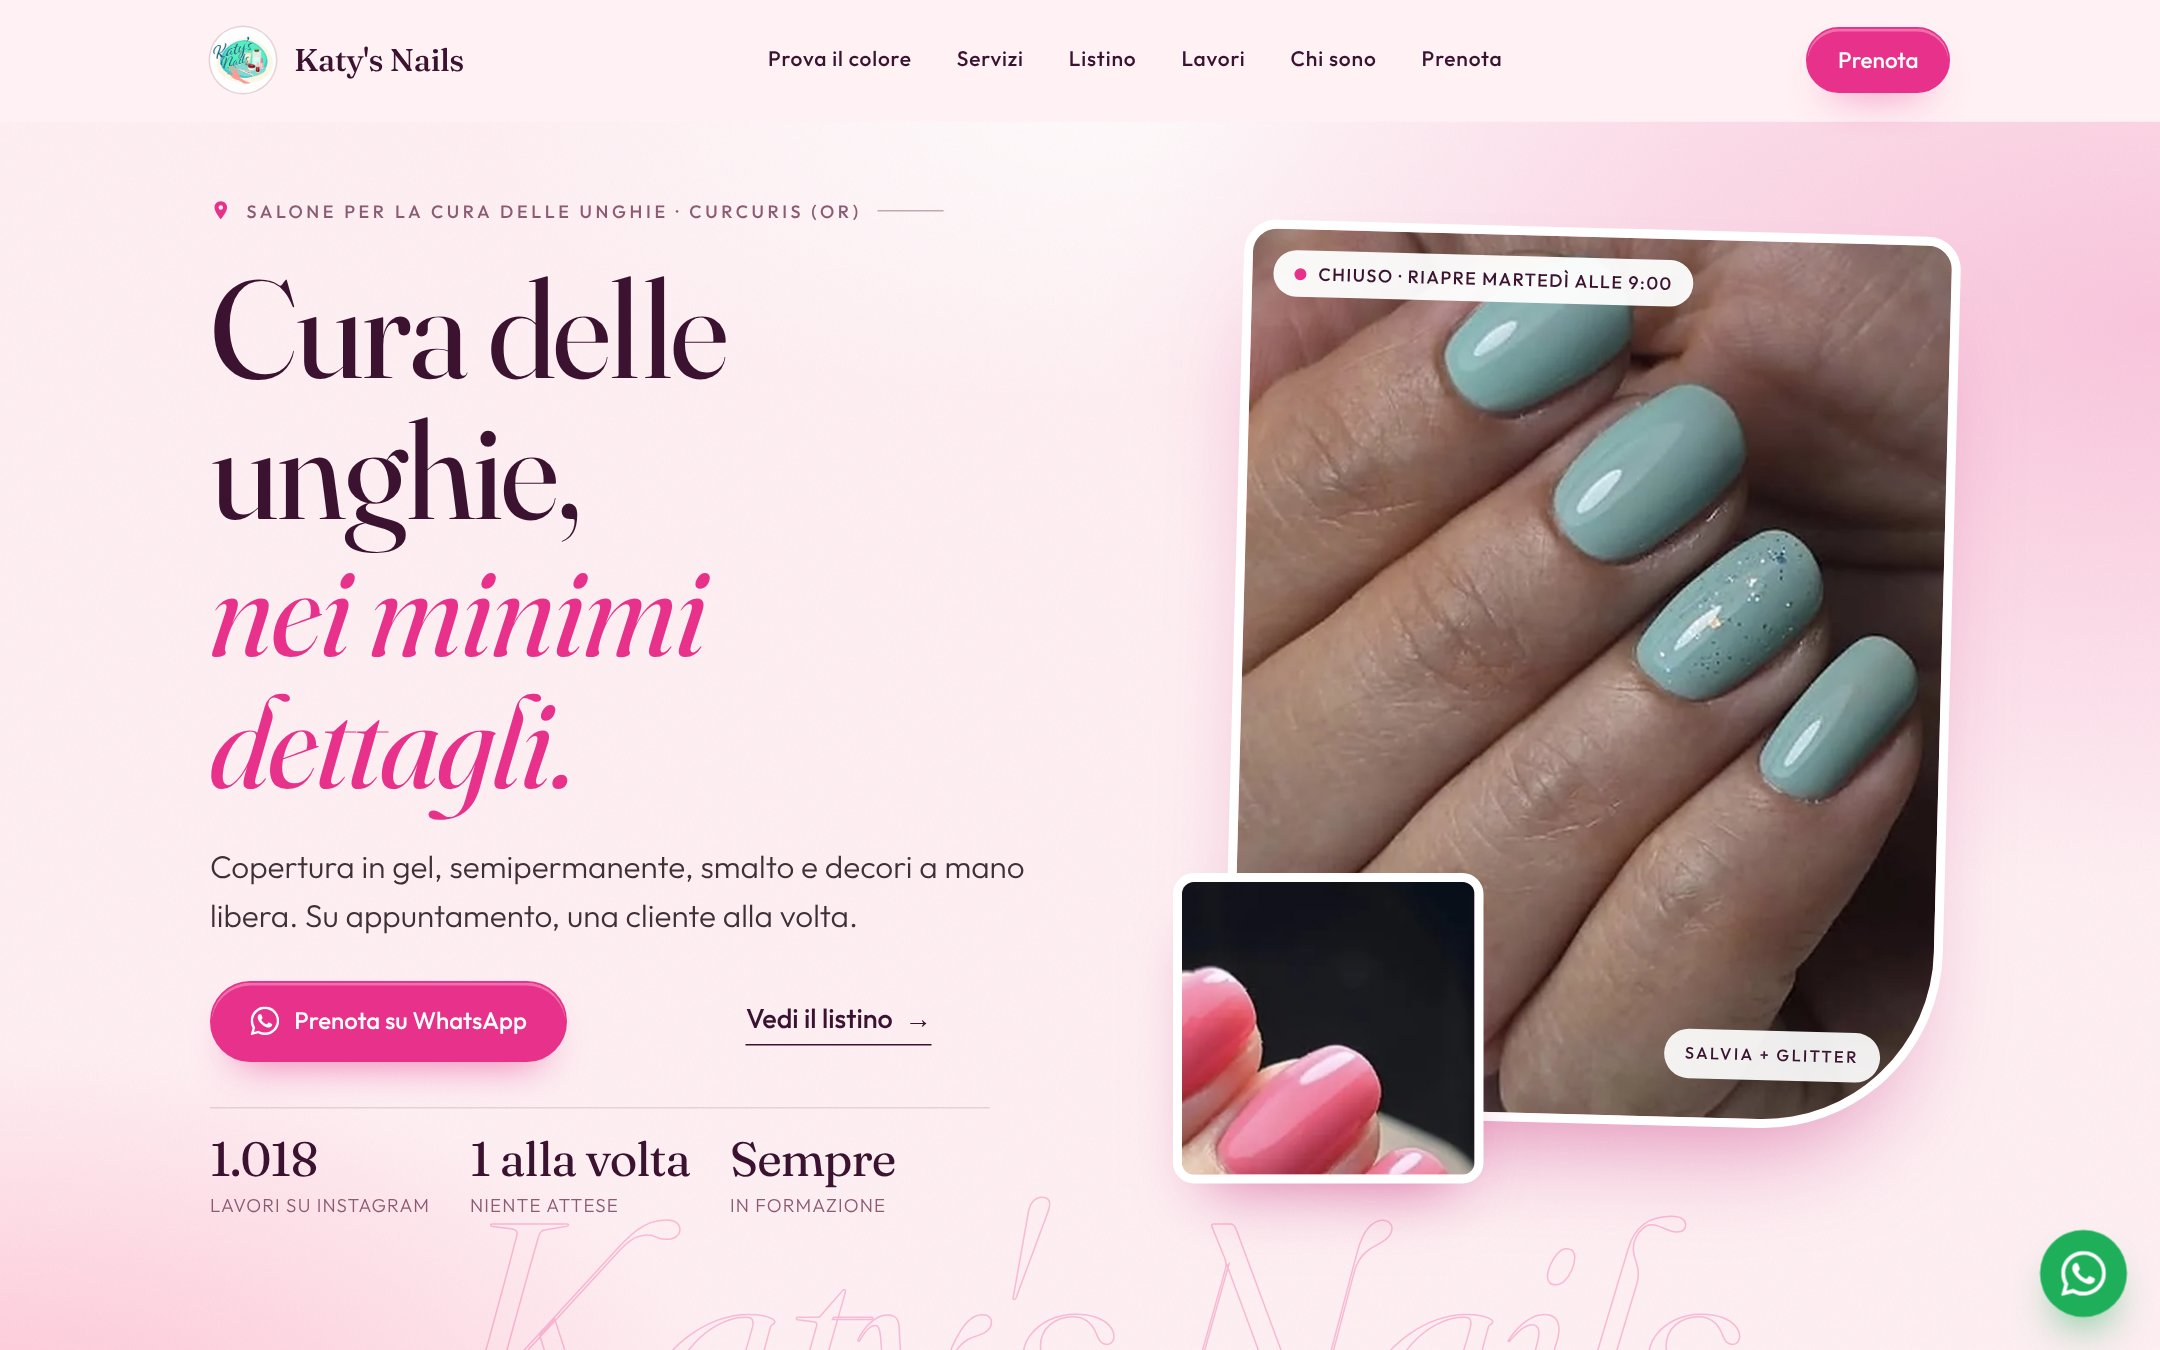
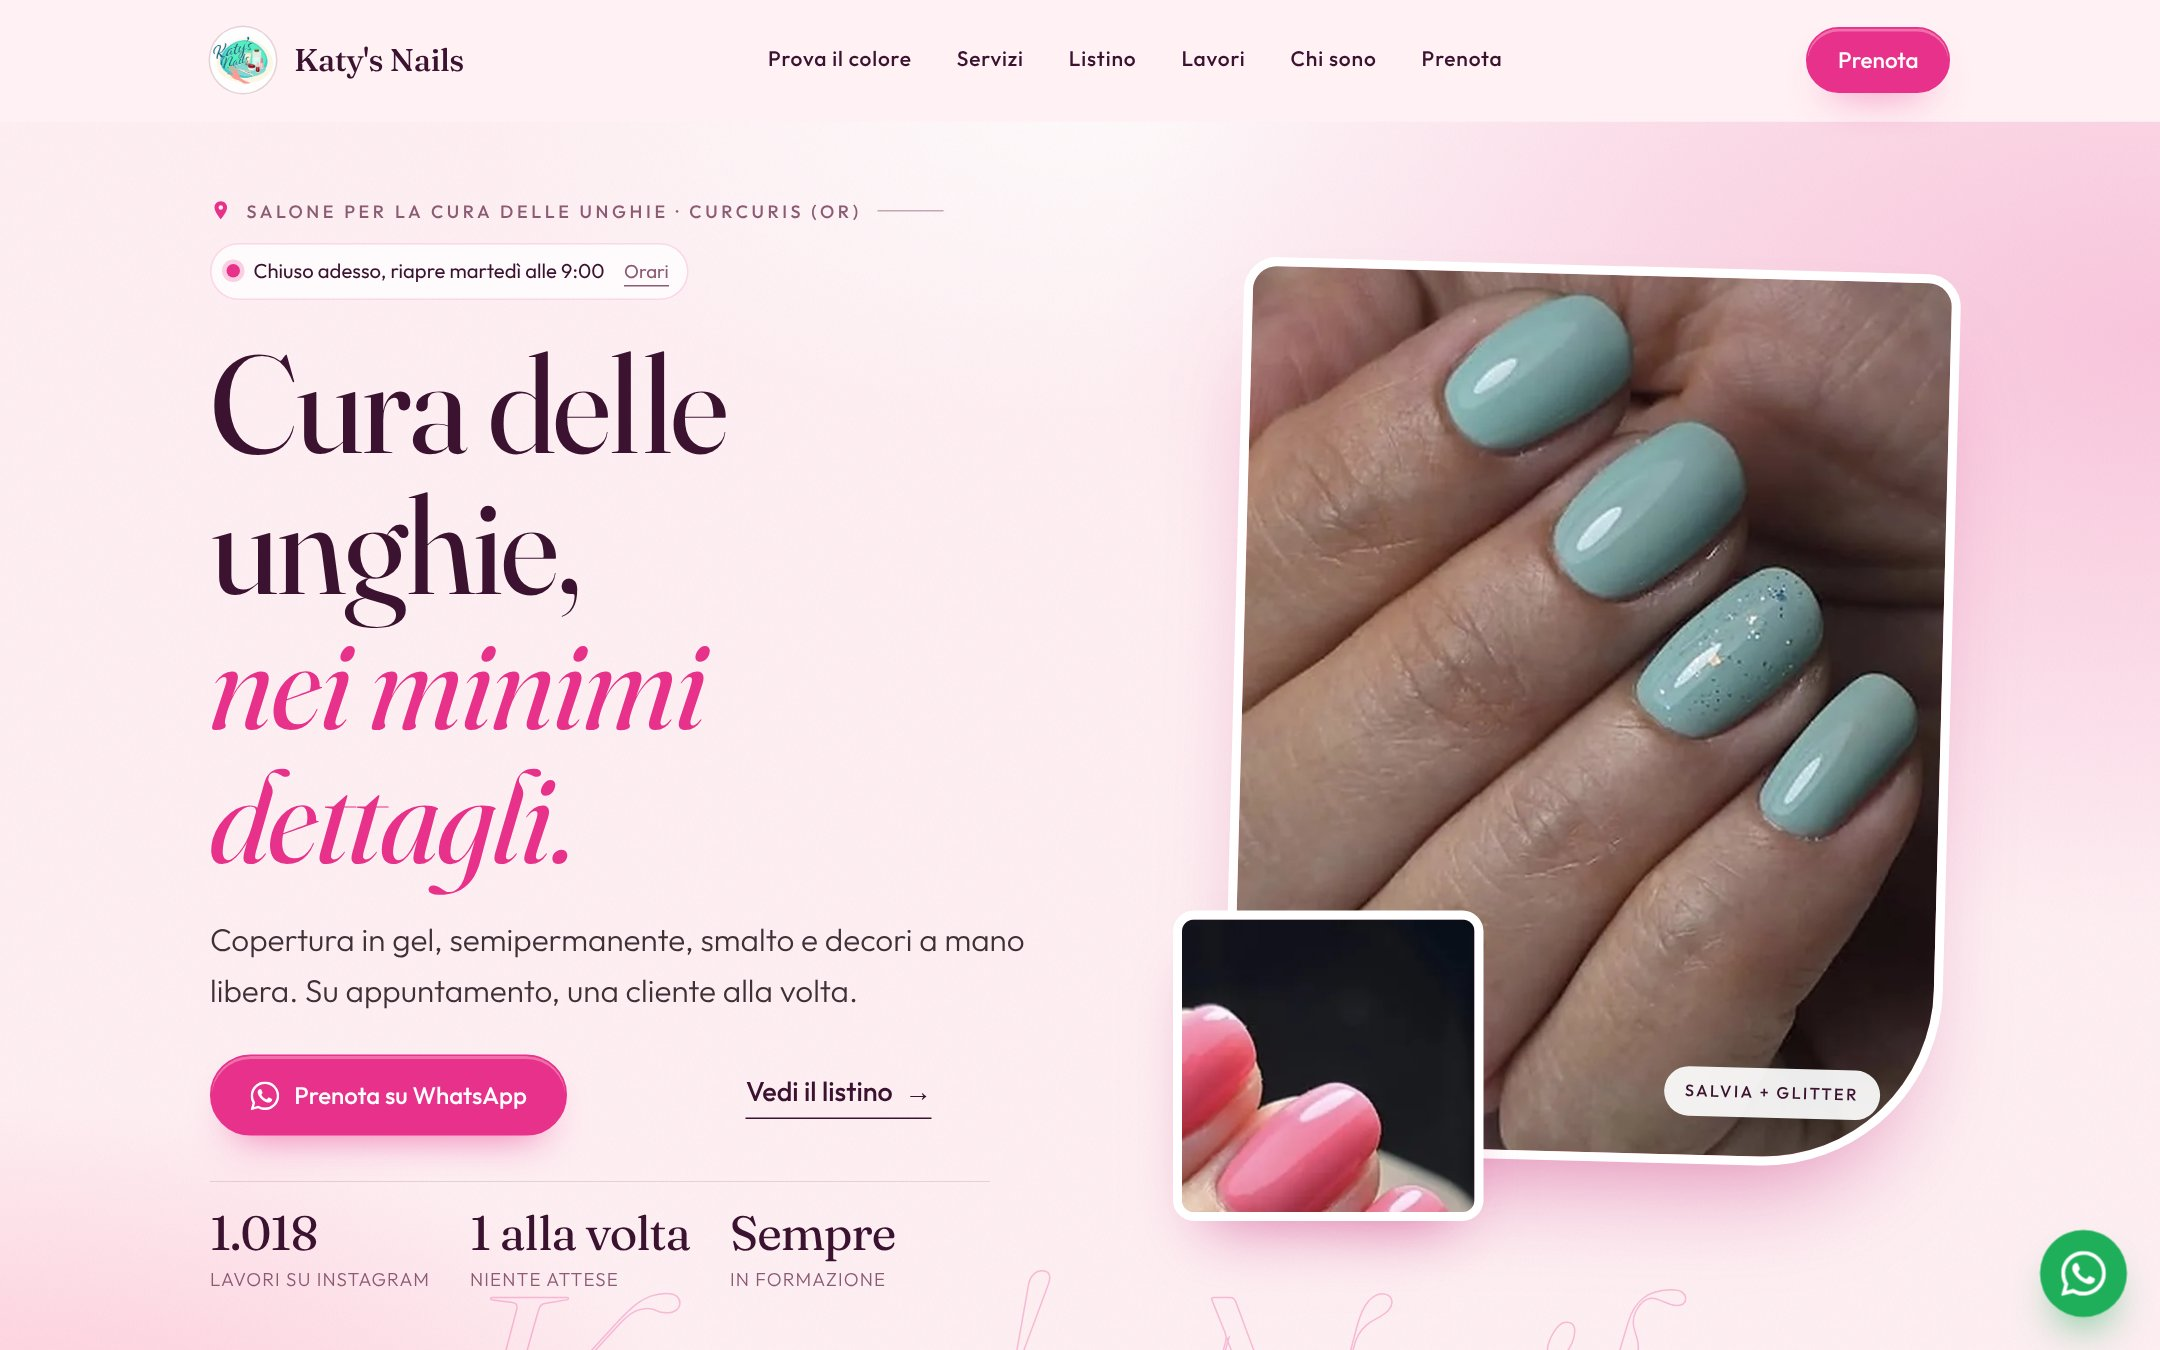
Aperto/chiuso spostato dalla foto al testo dell'apertura
Sulla foto sembrava una didascalia. Ora sta sotto l'etichetta dello
studio, con il link agli orari.

Claude-Session: https://claude.ai/code/session_01W7HbZyGkFPDAda3KWqu4ya

diff --git a/anteprima/index.html b/anteprima/index.html
@@ -24,7 +24,7 @@
 <link rel="preload" href="../da-caricare/assets/fonts/fraunces-latin-normal-300-700.woff2" as="font" type="font/woff2" crossorigin>
 <link rel="preload" href="../da-caricare/assets/fonts/fraunces-latin-italic-300-700.woff2" as="font" type="font/woff2" crossorigin>
 <link rel="preload" href="../da-caricare/assets/fonts/outfit-latin-normal-300-800.woff2" as="font" type="font/woff2" crossorigin>
-<link rel="stylesheet" href="../da-caricare/assets/css/site.css?v=1795294460">
+<link rel="stylesheet" href="../da-caricare/assets/css/site.css?v=1795295909">
 <script>document.documentElement.classList.add('js')</script>
 <script type="application/ld+json">{"@context":"https://schema.org","@type":"NailSalon","name":"Katy's Nails","url":"http://anteprima.local/","image":"http://anteprima.local/assets/img/og.jpg","logo":"http://anteprima.local/assets/img/logo.jpg","telephone":"+39 349 413 6132","address":{"@type":"PostalAddress","streetAddress":"Via Grazia Deledda 2a","addressLocality":"Curcuris","addressRegion":"OR","addressCountry":"IT"},"openingHoursSpecification":[{"@type":"OpeningHoursSpecification","dayOfWeek":"Tuesday","opens":"09:00","closes":"13:00"},{"@type":"OpeningHoursSpecification","dayOfWeek":"Tuesday","opens":"15:00","closes":"19:00"},{"@type":"OpeningHoursSpecification","dayOfWeek":"Wednesday","opens":"09:00","closes":"13:00"},{"@type":"OpeningHoursSpecification","dayOfWeek":"Wednesday","opens":"15:00","closes":"19:00"},{"@type":"OpeningHoursSpecification","dayOfWeek":"Thursday","opens":"09:00","closes":"13:00"},{"@type":"OpeningHoursSpecification","dayOfWeek":"Thursday","opens":"15:00","closes":"19:00"},{"@type":"OpeningHoursSpecification","dayOfWeek":"Friday","opens":"09:00","closes":"13:00"},{"@type":"OpeningHoursSpecification","dayOfWeek":"Friday","opens":"15:00","closes":"19:00"},{"@type":"OpeningHoursSpecification","dayOfWeek":"Saturday","opens":"09:00","closes":"14:00"}],"sameAs":["https://www.instagram.com/katys.nails.studio90/"]}</script>
 </head>
@@ -48,6 +48,7 @@
   <div class="wrap hero-grid">
     <div class="hero-text">
       <p class="kicker up" style="--d:0"><svg viewBox="0 0 24 24" aria-hidden="true" class="ico"><path fill="currentColor" d="M12 2C8.13 2 5 5.13 5 9c0 5.25 7 13 7 13s7-7.75 7-13c0-3.87-3.13-7-7-7zm0 9.5a2.5 2.5 0 010-5 2.5 2.5 0 010 5z"/></svg><span>Salone per la cura delle unghie · Curcuris (OR)</span></p>
+      <p class="hero-open up" style="--d:0" id="hero-status" hidden><i></i><span></span><a href="#prenota">Orari</a></p>
       <h1><span class="up" style="--d:1">Cura delle unghie,</span> <em class="script up" style="--d:2">nei minimi dettagli.</em></h1>
       <p class="lead up" style="--d:3">Copertura in gel, semipermanente, smalto e decori a mano libera. Su appuntamento, una cliente alla volta.</p>
       <div class="cta up" style="--d:4">
@@ -61,7 +62,6 @@
       <figure class="visual" data-slides="[{&quot;src&quot;:&quot;../da-caricare/uploads/20261121-e12d07703976.webp&quot;,&quot;cap&quot;:&quot;Rosa fragola lucido&quot;},{&quot;src&quot;:&quot;../da-caricare/uploads/20261121-0f730c578a9b.webp&quot;,&quot;cap&quot;:&quot;French sottile&quot;},{&quot;src&quot;:&quot;../da-caricare/uploads/20261121-e0dcf2bb16c1.webp&quot;,&quot;cap&quot;:&quot;Rosa latte&quot;}]">
         <div class="slides"><img src="../da-caricare/uploads/20261121-7a33137fe847.webp" alt="Salvia + glitter" class="on" width="800" height="1000" fetchpriority="high"></div>
         <span class="shine" aria-hidden="true"></span>
-        <span class="status live" id="hero-status" hidden></span>
         <figcaption><span id="hero-cap">Salvia + glitter</span></figcaption>
       </figure>
             <figure class="visual-2"><img src="../da-caricare/uploads/20261121-e12d07703976-t.webp" alt="Rosa fragola lucido" width="400" height="400" loading="lazy"></figure>
@@ -348,6 +348,6 @@
   <a class="ab-wa" href="https://wa.me/393494136132?text=Ciao%20Katy%21%20Vorrei%20prenotare%20un%20appuntamento." target="_blank" rel="noopener"><svg viewBox="0 0 24 24" aria-hidden="true" class="ico"><path fill="currentColor" d="M17.472 14.382c-.297-.149-1.758-.867-2.03-.967-.273-.099-.471-.148-.67.15-.197.297-.767.966-.94 1.164-.173.199-.347.223-.644.075-.297-.15-1.255-.463-2.39-1.475-.883-.788-1.48-1.761-1.653-2.059-.173-.297-.018-.458.13-.606.134-.133.298-.347.446-.52.149-.174.198-.298.298-.497.099-.198.05-.371-.025-.52-.075-.149-.669-1.612-.916-2.207-.242-.579-.487-.5-.669-.51-.173-.008-.371-.01-.57-.01-.198 0-.52.074-.792.372-.272.297-1.04 1.016-1.04 2.479 0 1.462 1.065 2.875 1.213 3.074.149.198 2.096 3.2 5.077 4.487.709.306 1.262.489 1.694.625.712.227 1.36.195 1.871.118.571-.085 1.758-.719 2.006-1.413.248-.694.248-1.289.173-1.413-.074-.124-.272-.198-.57-.347m-5.421 7.403h-.004a9.87 9.87 0 01-5.031-1.378l-.361-.214-3.741.982.998-3.648-.235-.374a9.86 9.86 0 01-1.51-5.26c.001-5.45 4.436-9.884 9.888-9.884 2.64 0 5.122 1.03 6.988 2.898a9.825 9.825 0 012.893 6.994c-.003 5.45-4.437 9.884-9.885 9.884m8.413-18.297A11.815 11.815 0 0012.05 0C5.495 0 .16 5.335.157 11.892c0 2.096.547 4.142 1.588 5.945L.057 24l6.305-1.654a11.882 11.882 0 005.683 1.448h.005c6.554 0 11.89-5.335 11.893-11.893a11.821 11.821 0 00-3.48-8.413z"/></svg>WhatsApp</a>
 </div>
 <a class="wa-float" href="https://wa.me/393494136132?text=Ciao%20Katy%21%20Vorrei%20prenotare%20un%20appuntamento." target="_blank" rel="noopener" aria-label="Scrivi a Katy&#039;s Nails su WhatsApp"><svg viewBox="0 0 24 24" aria-hidden="true" class="ico"><path fill="currentColor" d="M17.472 14.382c-.297-.149-1.758-.867-2.03-.967-.273-.099-.471-.148-.67.15-.197.297-.767.966-.94 1.164-.173.199-.347.223-.644.075-.297-.15-1.255-.463-2.39-1.475-.883-.788-1.48-1.761-1.653-2.059-.173-.297-.018-.458.13-.606.134-.133.298-.347.446-.52.149-.174.198-.298.298-.497.099-.198.05-.371-.025-.52-.075-.149-.669-1.612-.916-2.207-.242-.579-.487-.5-.669-.51-.173-.008-.371-.01-.57-.01-.198 0-.52.074-.792.372-.272.297-1.04 1.016-1.04 2.479 0 1.462 1.065 2.875 1.213 3.074.149.198 2.096 3.2 5.077 4.487.709.306 1.262.489 1.694.625.712.227 1.36.195 1.871.118.571-.085 1.758-.719 2.006-1.413.248-.694.248-1.289.173-1.413-.074-.124-.272-.198-.57-.347m-5.421 7.403h-.004a9.87 9.87 0 01-5.031-1.378l-.361-.214-3.741.982.998-3.648-.235-.374a9.86 9.86 0 01-1.51-5.26c.001-5.45 4.436-9.884 9.888-9.884 2.64 0 5.122 1.03 6.988 2.898a9.825 9.825 0 012.893 6.994c-.003 5.45-4.437 9.884-9.885 9.884m8.413-18.297A11.815 11.815 0 0012.05 0C5.495 0 .16 5.335.157 11.892c0 2.096.547 4.142 1.588 5.945L.057 24l6.305-1.654a11.882 11.882 0 005.683 1.448h.005c6.554 0 11.89-5.335 11.893-11.893a11.821 11.821 0 00-3.48-8.413z"/></svg></a>
-<script src="../da-caricare/assets/js/site.js?v=1795294156" defer></script>
+<script src="../da-caricare/assets/js/site.js?v=1795295909" defer></script>
 </body>
 </html>

diff --git a/anteprima/privacy.html b/anteprima/privacy.html
@@ -24,7 +24,7 @@
 <link rel="preload" href="../da-caricare/assets/fonts/fraunces-latin-normal-300-700.woff2" as="font" type="font/woff2" crossorigin>
 <link rel="preload" href="../da-caricare/assets/fonts/fraunces-latin-italic-300-700.woff2" as="font" type="font/woff2" crossorigin>
 <link rel="preload" href="../da-caricare/assets/fonts/outfit-latin-normal-300-800.woff2" as="font" type="font/woff2" crossorigin>
-<link rel="stylesheet" href="../da-caricare/assets/css/site.css?v=1795294460">
+<link rel="stylesheet" href="../da-caricare/assets/css/site.css?v=1795295909">
 <script>document.documentElement.classList.add('js')</script>
 </head>
 <body><div style="background:#2E1F28;color:#fff;font:500 13px/1.4 system-ui,sans-serif;text-align:center;padding:8px 12px">Anteprima del sito · il pannello di gestione funziona solo quando il sito è online su un hosting con PHP</div>
@@ -98,6 +98,6 @@
   <a class="ab-wa" href="https://wa.me/393494136132?text=Ciao%20Katy%21%20Vorrei%20prenotare%20un%20appuntamento." target="_blank" rel="noopener"><svg viewBox="0 0 24 24" aria-hidden="true" class="ico"><path fill="currentColor" d="M17.472 14.382c-.297-.149-1.758-.867-2.03-.967-.273-.099-.471-.148-.67.15-.197.297-.767.966-.94 1.164-.173.199-.347.223-.644.075-.297-.15-1.255-.463-2.39-1.475-.883-.788-1.48-1.761-1.653-2.059-.173-.297-.018-.458.13-.606.134-.133.298-.347.446-.52.149-.174.198-.298.298-.497.099-.198.05-.371-.025-.52-.075-.149-.669-1.612-.916-2.207-.242-.579-.487-.5-.669-.51-.173-.008-.371-.01-.57-.01-.198 0-.52.074-.792.372-.272.297-1.04 1.016-1.04 2.479 0 1.462 1.065 2.875 1.213 3.074.149.198 2.096 3.2 5.077 4.487.709.306 1.262.489 1.694.625.712.227 1.36.195 1.871.118.571-.085 1.758-.719 2.006-1.413.248-.694.248-1.289.173-1.413-.074-.124-.272-.198-.57-.347m-5.421 7.403h-.004a9.87 9.87 0 01-5.031-1.378l-.361-.214-3.741.982.998-3.648-.235-.374a9.86 9.86 0 01-1.51-5.26c.001-5.45 4.436-9.884 9.888-9.884 2.64 0 5.122 1.03 6.988 2.898a9.825 9.825 0 012.893 6.994c-.003 5.45-4.437 9.884-9.885 9.884m8.413-18.297A11.815 11.815 0 0012.05 0C5.495 0 .16 5.335.157 11.892c0 2.096.547 4.142 1.588 5.945L.057 24l6.305-1.654a11.882 11.882 0 005.683 1.448h.005c6.554 0 11.89-5.335 11.893-11.893a11.821 11.821 0 00-3.48-8.413z"/></svg>WhatsApp</a>
 </div>
 <a class="wa-float" href="https://wa.me/393494136132?text=Ciao%20Katy%21%20Vorrei%20prenotare%20un%20appuntamento." target="_blank" rel="noopener" aria-label="Scrivi a Katy&#039;s Nails su WhatsApp"><svg viewBox="0 0 24 24" aria-hidden="true" class="ico"><path fill="currentColor" d="M17.472 14.382c-.297-.149-1.758-.867-2.03-.967-.273-.099-.471-.148-.67.15-.197.297-.767.966-.94 1.164-.173.199-.347.223-.644.075-.297-.15-1.255-.463-2.39-1.475-.883-.788-1.48-1.761-1.653-2.059-.173-.297-.018-.458.13-.606.134-.133.298-.347.446-.52.149-.174.198-.298.298-.497.099-.198.05-.371-.025-.52-.075-.149-.669-1.612-.916-2.207-.242-.579-.487-.5-.669-.51-.173-.008-.371-.01-.57-.01-.198 0-.52.074-.792.372-.272.297-1.04 1.016-1.04 2.479 0 1.462 1.065 2.875 1.213 3.074.149.198 2.096 3.2 5.077 4.487.709.306 1.262.489 1.694.625.712.227 1.36.195 1.871.118.571-.085 1.758-.719 2.006-1.413.248-.694.248-1.289.173-1.413-.074-.124-.272-.198-.57-.347m-5.421 7.403h-.004a9.87 9.87 0 01-5.031-1.378l-.361-.214-3.741.982.998-3.648-.235-.374a9.86 9.86 0 01-1.51-5.26c.001-5.45 4.436-9.884 9.888-9.884 2.64 0 5.122 1.03 6.988 2.898a9.825 9.825 0 012.893 6.994c-.003 5.45-4.437 9.884-9.885 9.884m8.413-18.297A11.815 11.815 0 0012.05 0C5.495 0 .16 5.335.157 11.892c0 2.096.547 4.142 1.588 5.945L.057 24l6.305-1.654a11.882 11.882 0 005.683 1.448h.005c6.554 0 11.89-5.335 11.893-11.893a11.821 11.821 0 00-3.48-8.413z"/></svg></a>
-<script src="../da-caricare/assets/js/site.js?v=1795294156" defer></script>
+<script src="../da-caricare/assets/js/site.js?v=1795295909" defer></script>
 </body>
 </html>

diff --git a/da-caricare/assets/css/site.css b/da-caricare/assets/css/site.css
@@ -103,7 +103,12 @@ em.script,.script{font-family:var(--serif);font-style:italic;font-weight:400;let
 /* ---------- apertura ---------- */
 .hero{background:radial-gradient(70% 60% at 100% 15%,rgba(232,49,138,.22),transparent 70%),radial-gradient(50% 45% at 0% 100%,rgba(255,157,188,.55),transparent 70%),radial-gradient(40% 30% at 50% 0%,rgba(255,255,255,.7),transparent 70%),var(--crema);padding:26px 0 70px;overflow:hidden}
 .hero-grid{display:grid;gap:34px}
-.hero .kicker{margin-bottom:22px}
+.hero .kicker{margin-bottom:12px}
+.hero-open{display:inline-flex;align-items:center;gap:9px;margin:0 0 22px;padding:7px 12px 7px 10px;border-radius:999px;background:rgba(255,255,255,.75);border:1px solid rgba(232,49,138,.18);font-size:13.5px;font-weight:400;color:var(--ink)}
+.hero-open i{width:9px;height:9px;border-radius:50%;background:var(--dot,#bbb);flex:none;box-shadow:0 0 0 3px color-mix(in srgb,var(--dot,#bbb) 22%,transparent)}
+.hero-open.si{--dot:var(--verde)}.hero-open.no{--dot:var(--fragola)}
+.hero-open a{color:var(--muted);text-decoration:none;border-bottom:1px solid currentColor;font-size:12.5px;margin-left:4px}
+.hero-open a:hover{color:var(--ink)}
 .hero h1{font-size:clamp(46px,12.5vw,118px);font-weight:400;margin-bottom:22px}
 .hero h1 span,.hero h1 em{display:block}
 .hero h1 em{margin-top:.02em;font-size:.94em}
@@ -120,7 +125,6 @@ em.script,.script{font-family:var(--serif);font-style:italic;font-weight:400;let
 .visual .slides img.on{opacity:1;transform:scale(1)}
 .visual .shine{position:absolute;inset:0;pointer-events:none;background:linear-gradient(105deg,transparent 40%,rgba(255,255,255,.28) 50%,transparent 60%) no-repeat;background-size:250% 100%;background-position:150% 0;animation:lucido 8s ease-in-out 2s infinite}
 @keyframes lucido{0%{background-position:150% 0}20%,100%{background-position:-60% 0}}
-.visual .live{position:absolute;left:14px;top:14px;z-index:2;margin:0}
 .visual figcaption{position:absolute;right:34px;bottom:26px;max-width:60%;padding:8px 14px;border-radius:999px;background:rgba(255,255,255,.92);color:var(--ink);font-size:11px;font-weight:500;letter-spacing:.14em;text-transform:uppercase;white-space:nowrap;overflow:hidden;text-overflow:ellipsis;z-index:2;transition:opacity .4s}
 .visual figcaption.fade{opacity:0}
 .visual-2{position:absolute;margin:0;width:34%;left:-6px;bottom:0;border-radius:14px;overflow:hidden;border:6px solid #fff;box-shadow:0 24px 40px -22px rgba(196,30,115,.55);aspect-ratio:1/1;background:var(--rosa)}
@@ -398,8 +402,6 @@ details[open] .q-i::after{transform:translate(-50%,-50%) rotate(0)}
 .status{display:inline-flex;align-items:center;gap:8px;border-radius:999px;padding:6px 14px;font-weight:500;font-size:12px;letter-spacing:.08em;text-transform:uppercase;background:rgba(255,255,255,.14);margin-bottom:8px}
 .status::before{content:"";width:8px;height:8px;border-radius:50%;background:var(--dot,#bbb);flex:none}
 .status.si{--dot:#5BEBA8}.status.no{--dot:#FFB3CC}
-.visual .status{background:rgba(255,255,255,.95);color:var(--ink)}
-.visual .status.si{--dot:var(--verde)}.visual .status.no{--dot:var(--fragola)}
 .hours{width:100%;border-collapse:collapse;margin:6px 0 18px;font-size:15px}
 .hours th{text-align:left;font-weight:300;padding:9px 8px 9px 0;color:rgba(255,255,255,.78)}
 .hours td{text-align:right;padding:9px 0;font-variant-numeric:tabular-nums}

diff --git a/da-caricare/assets/js/site.js b/da-caricare/assets/js/site.js
@@ -96,7 +96,7 @@
       var s = calcola();
       stato.textContent = s.t; stato.className = 'status ' + (s.si ? 'si' : 'no'); stato.hidden = false;
       var hs = $('#hero-status');
-      if (hs) { hs.textContent = s.t.replace('Chiuso adesso · ', 'Chiuso · '); hs.className = 'status live ' + (s.si ? 'si' : 'no'); hs.hidden = false; }
+      if (hs) { $('span', hs).textContent = s.t.replace(' · ', ', '); hs.className = 'hero-open up ' + (s.si ? 'si' : 'no'); hs.hidden = false; }
     };
     mostra();
     setInterval(mostra, 60000);

diff --git a/da-caricare/index.php b/da-caricare/index.php
@@ -76,6 +76,7 @@ kn_page_start($c, ['jsonld' => true]);
   <div class="wrap hero-grid">
     <div class="hero-text">
       <p class="kicker up" style="--d:0"><?= KN_PIN_ICON ?><span><?= e($hero['etichetta']) ?></span></p>
+      <p class="hero-open up" style="--d:0" id="hero-status" hidden><i></i><span></span><a href="#prenota">Orari</a></p>
       <h1><span class="up" style="--d:1"><?= e($hero['titolo']) ?></span> <em class="script up" style="--d:2"><?= e($hero['titolo_script']) ?></em></h1>
       <p class="lead up" style="--d:3"><?= e($hero['sottotitolo']) ?></p>
       <div class="cta up" style="--d:4">
@@ -93,7 +94,6 @@ kn_page_start($c, ['jsonld' => true]);
       <figure class="visual" data-slides="<?= e(json_encode(array_slice($slides, 1), JSON_UNESCAPED_SLASHES | JSON_UNESCAPED_UNICODE)) ?>">
         <div class="slides"><?= kn_img_tag($heroFoto, $hero['foto_etichetta'] ?: 'Un lavoro di ' . $s['nome'], 'class="on" width="800" height="1000" fetchpriority="high"') ?></div>
         <span class="shine" aria-hidden="true"></span>
-        <span class="status live" id="hero-status" hidden></span>
         <figcaption<?= $hero['foto_etichetta'] ? '' : ' hidden' ?>><span id="hero-cap"><?= e($hero['foto_etichetta']) ?></span></figcaption>
       </figure>
       <?php if ($secondaFoto): ?>
